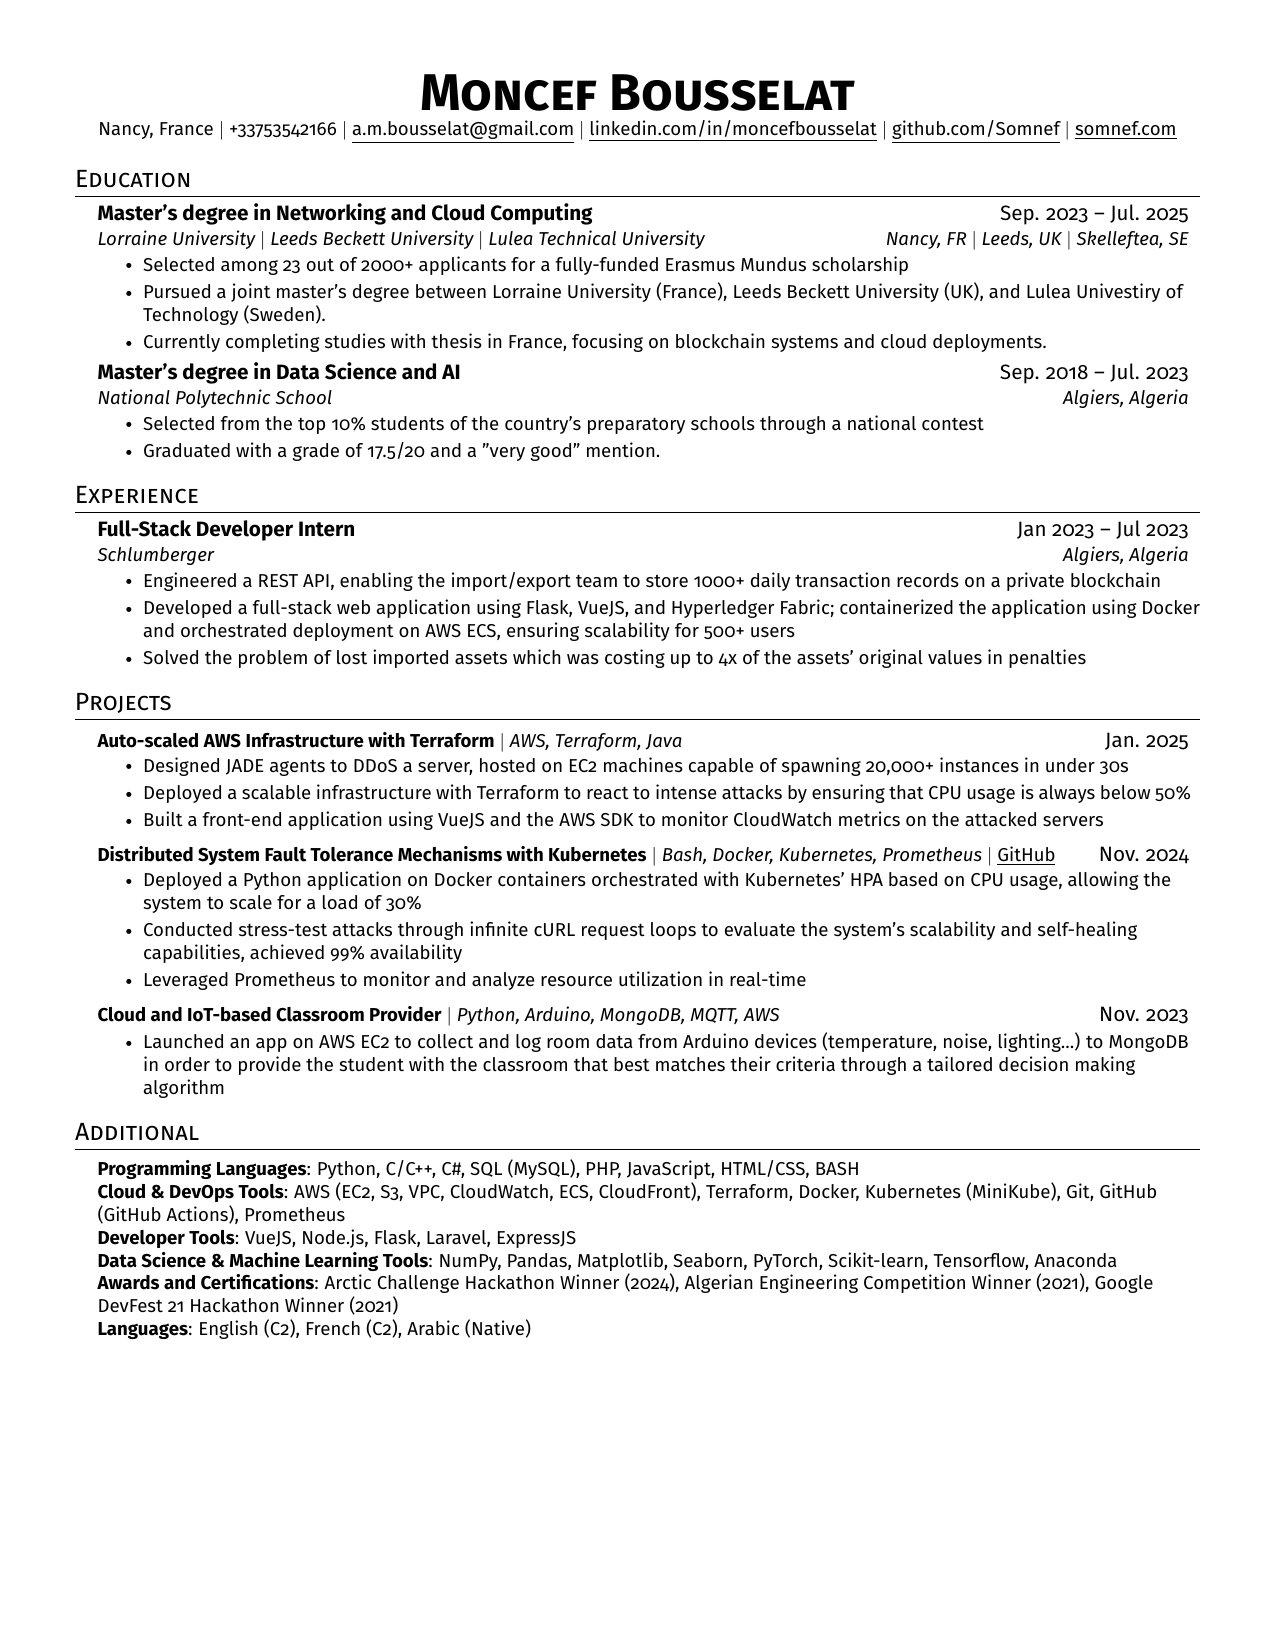
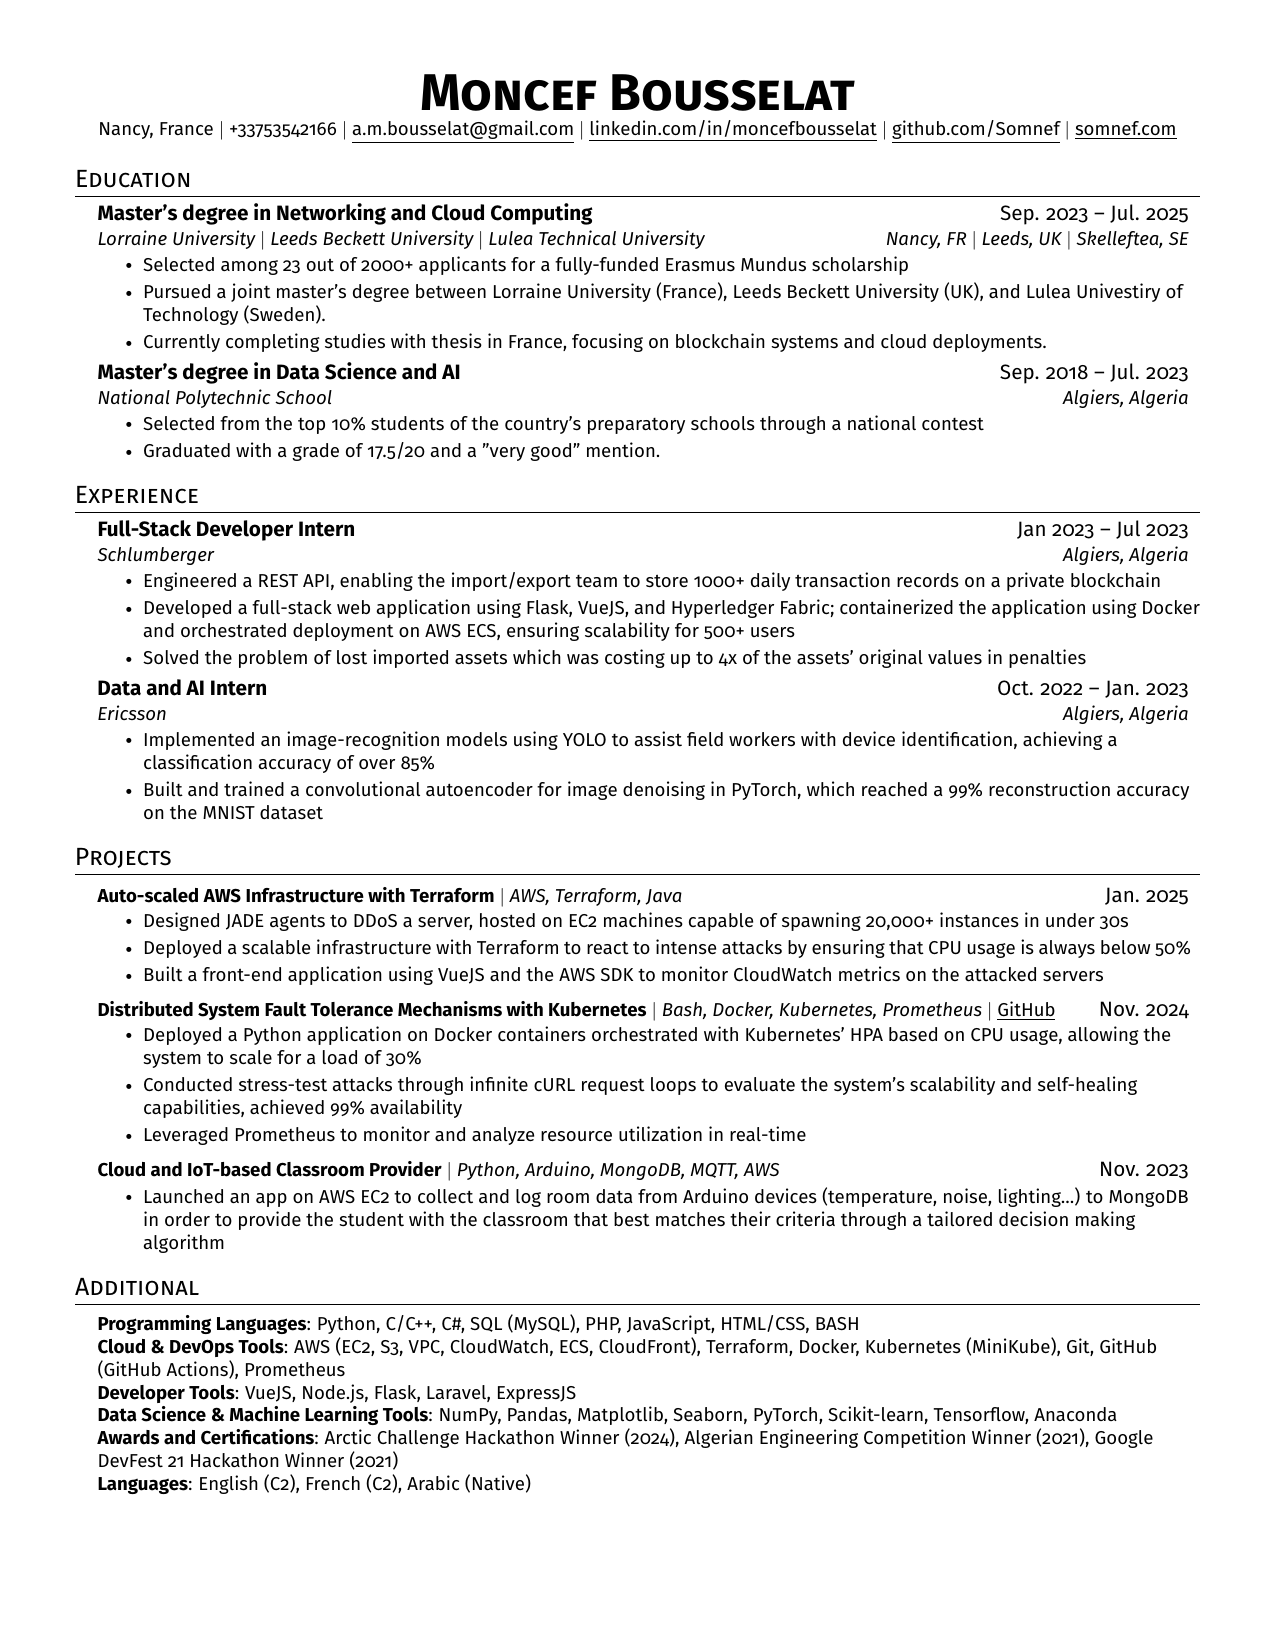
Auto-update: 2025-04-16 22:09:01

Changed region(s): [[0.0612, 0.4016, 0.9482, 0.9267], [0.6118, 0.8649, 0.6729, 0.8958], [0.6729, 0.834, 0.7035, 0.8649]]

diff --git a/english-cloud/english-cloud.tex b/english-cloud/english-cloud.tex
@@ -160,13 +160,13 @@
                 \resumeItem{Solved the problem of lost imported assets which was costing up to 4x of the assets’ original values in penalties}
             \resumeItemListEnd
 
-        % \resumeSubheading
-        % {Data and AI Intern}{Oct. 2022 -- Jan. 2023}
-        % {Ericsson}{Algiers, Algeria}
-        %     \resumeItemListStart
-        %         \resumeItem{Implemented an image-recognition models using YOLO to assist field workers with device identification, achieving a classification accuracy of over 85\%}
-        %         \resumeItem{Built and trained a convolutional autoencoder for image denoising in PyTorch, which reached a 99\% reconstruction accuracy on the MNIST dataset}
-        % \resumeItemListEnd
+        \resumeSubheading
+        {Data and AI Intern}{Oct. 2022 -- Jan. 2023}
+        {Ericsson}{Algiers, Algeria}
+            \resumeItemListStart
+                \resumeItem{Implemented an image-recognition models using YOLO to assist field workers with device identification, achieving a classification accuracy of over 85\%}
+                \resumeItem{Built and trained a convolutional autoencoder for image denoising in PyTorch, which reached a 99\% reconstruction accuracy on the MNIST dataset}
+        \resumeItemListEnd
 
         % \resumeSubheading
         % {Data Analyst Intern}{May. 2022 -- Jul. 2022}
